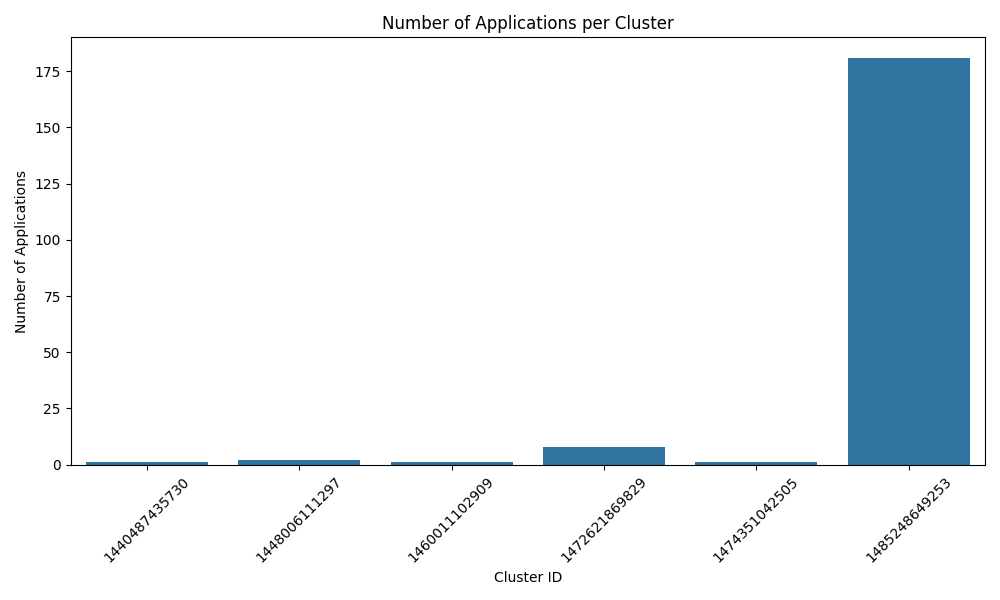
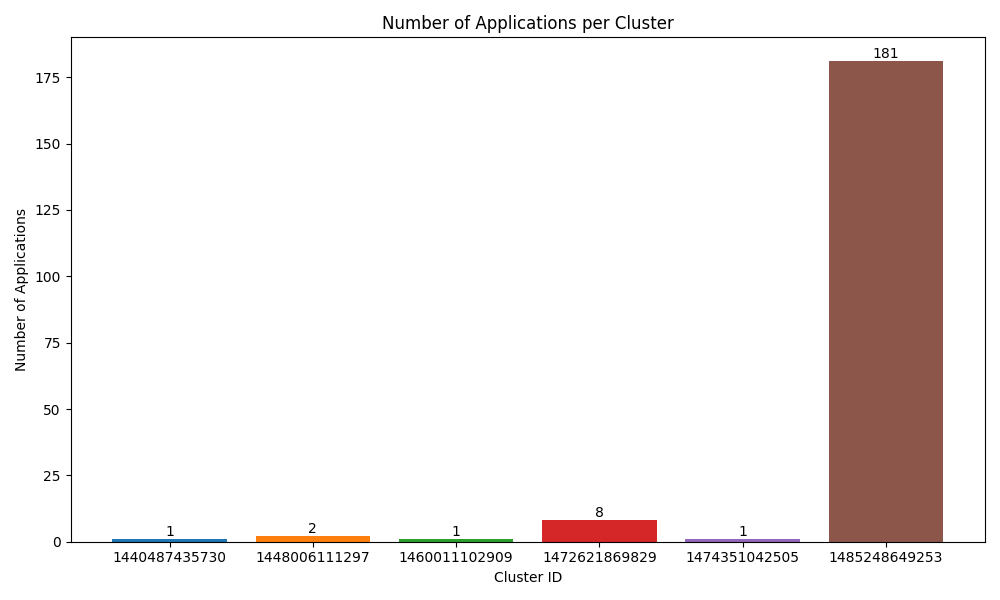
working

diff --git a/problem2.py b/problem2.py
@@ -12,6 +12,8 @@ import matplotlib.pyplot as plt
 import seaborn as sns
 import pandas as pd
 from pyspark.sql import functions as F
+import numpy as np
+from scipy.stats import gaussian_kde
 
 #input paths for our s3 data (or locally first to test)
 
@@ -20,20 +22,18 @@ run_type = "cluster"
 
 #local paths for running on ec2 instance, not cluster
 input_path_local = "data/sample"
-output_path_local = "data/output"
+
 
 #S3 paths
 S3_bucket= "jm3756-assignment-spark-cluster-logs"
 S3_input_path = f"s3a://{S3_bucket}/data/"
-S3_output_path = "data/output"
 
 
-if run_type == "local":
-    input_path = input_path_local
-    output_path = output_path_local
-else:
-    input_path = S3_input_path
-    output_path = S3_output_path
+#output path fixed locally
+output_path = "data/output"
+os.makedirs(output_path, exist_ok=True)
+
+input_path = input_path_local if run_type == "local" else S3_input_path
 
 #build spark session
 spark = SparkSession.builder \
@@ -81,11 +81,10 @@ cluster_summary_df = app_times_df.groupBy("cluster_id") \
     .agg(
         spark_count("app_id").alias("num_applications"),
         spark_min("start_time").alias("first_app_start"),
-        spark_max("end_time").alias("last_app_end"),
-        spark_min("duration_sec").alias("min_duration_sec"),
-        spark_max("duration_sec").alias("max_duration_sec"),
+        spark_max("end_time").alias("last_app_end")
     ).orderBy("cluster_id")
 
+#output our cluster summary info..
 cluster_summary_csv = os.path.join(output_path, "problem2_cluster_summary.csv")
 cluster_summary_df.write.mode("overwrite").option("header", True).csv(cluster_summary_csv)
 
@@ -96,37 +95,96 @@ cluster_summary_pd = cluster_summary_df.toPandas()
 #Calculating our summary stats finally...
 total_clusters = cluster_summary_pd.shape[0]
 total_apps = app_times_pd.shape[0]
-avg_duration = app_times_pd['duration_sec'].mean()
-min_duration = app_times_pd['duration_sec'].min()
-max_duration = app_times_pd['duration_sec'].max()
 
 summary_file = os.path.join(output_path, "problem2_stats.txt")
 with open(summary_file, "w") as f:
-    f.write(f"Total clusters: {total_clusters}\n")
+    f.write(f"Total unique clusters: {total_clusters}\n")
     f.write(f"Total applications: {total_apps}\n")
-    f.write(f"Average application duration (sec): {avg_duration:.2f}\n")
-    f.write(f"Min application duration (sec): {min_duration}\n")
-    f.write(f"Max application duration (sec): {max_duration}\n")
+    f.write(f"Average applications per cluster: {avg_apps_per_cluster:.2f}\n\n")
+    f.write("Most heavily used clusters:\n")
+    for _, row in top_clusters.iterrows():
+        f.write(f"  Cluster {row['cluster_id']}: {row['num_applications']} applications\n")
 
 #Now to plotting...
 
 #make a bar chart here
-plt.figure(figsize=(10,6))
-sns.barplot(x="cluster_id", y="num_applications", data=cluster_summary_pd)
-plt.xticks(rotation=45)
+
+#set some colors..
+cmap = plt.get_cmap("tab10")  
+colors = [cmap(i % cmap.N) for i in range(len(cluster_summary_df))]
+
+# Create bar chart
+plt.figure(figsize=(10, 6))
+bars = plt.bar(
+    cluster_summary_df["cluster_id"],
+    cluster_summary_df["num_applications"],
+    color = colors
+)
+
+# Add value labels on top of each bar
+for bar in bars:
+    height = bar.get_height()
+    plt.text(
+        bar.get_x() + bar.get_width() / 2,
+        height,
+        f"{int(height)}",
+        ha="center",
+        va="bottom"
+    )
+
+#set label info
 plt.xlabel("Cluster ID")
 plt.ylabel("Number of Applications")
 plt.title("Number of Applications per Cluster")
+
 plt.tight_layout()
-plt.savefig(os.path.join(output_path, "problem2_bar_chart.png"))
+
+#output our graph...
+plt.savefig("problem2_bar_chart.png")
 plt.close()
 
-#Make density plot to assess distribution of times by cluster
-plt.figure(figsize=(10,6))
-sns.displot(data=app_times_pd, x="duration_sec", hue="cluster_id", kind="kde", fill=True)
-plt.xlabel("Application Duration (sec)")
-plt.title("Application Duration Density per Cluster")
-plt.savefig(os.path.join(output_path, "problem2_density_plot.png"))
+
+#Now let's make density plot of largest cluster
+
+#pull out data just for largest cluster
+largest_cluster_id = (app_times_df.groupby("cluster_id").size().idxmax())
+cluster_df = app_times_df[app_times_df["cluster_id"] == largest_cluster_id]
+
+#make df for durations and dropping length
+durations = cluster_df["duration_sec"].dropna()
+durations = durations[durations > 0]
+n = len(durations)
+
+plt.figure(figsize=(10, 6))
+plt.hist(
+    durations,
+    bins=30,
+    density=True,
+    alpha=0.6
+)
+
+#kde portion...
+kde = gaussian_kde(durations)
+x_vals = np.logspace(
+    np.log10(durations.min()),
+    np.log10(durations.max()),
+    500
+)
+plt.plot(x_vals, kde(x_vals))
+
+#Set our log scale on x-axis
+plt.xscale("log")
+
+#set labels for axis 
+plt.xlabel("Job Duration (seconds, log scale)")
+plt.ylabel("Density")
+plt.title(
+    f"Job Duration Distribution for Largest Cluster "
+    f"(Cluster {largest_cluster_id}, n={n})"
+)
+
+plt.tight_layout()
+plt.savefig("problem2_density_plot.png")
 plt.close()
 
 spark.stop()

diff --git a/ANALYSIS.md b/ANALYSIS.md
@@ -25,3 +25,9 @@ Brief description of your approach for each problem
 ## Visualizations
 
 - These graphs xyz
+
+### Problem 2 Bar Chart
+![Number of applications per cluster](data\output\problem2_bar_chart.png)
+
+### Problem 2 Density of Biggest Cluster
+![Density plot](data\output\problem2_density_plot.png)
